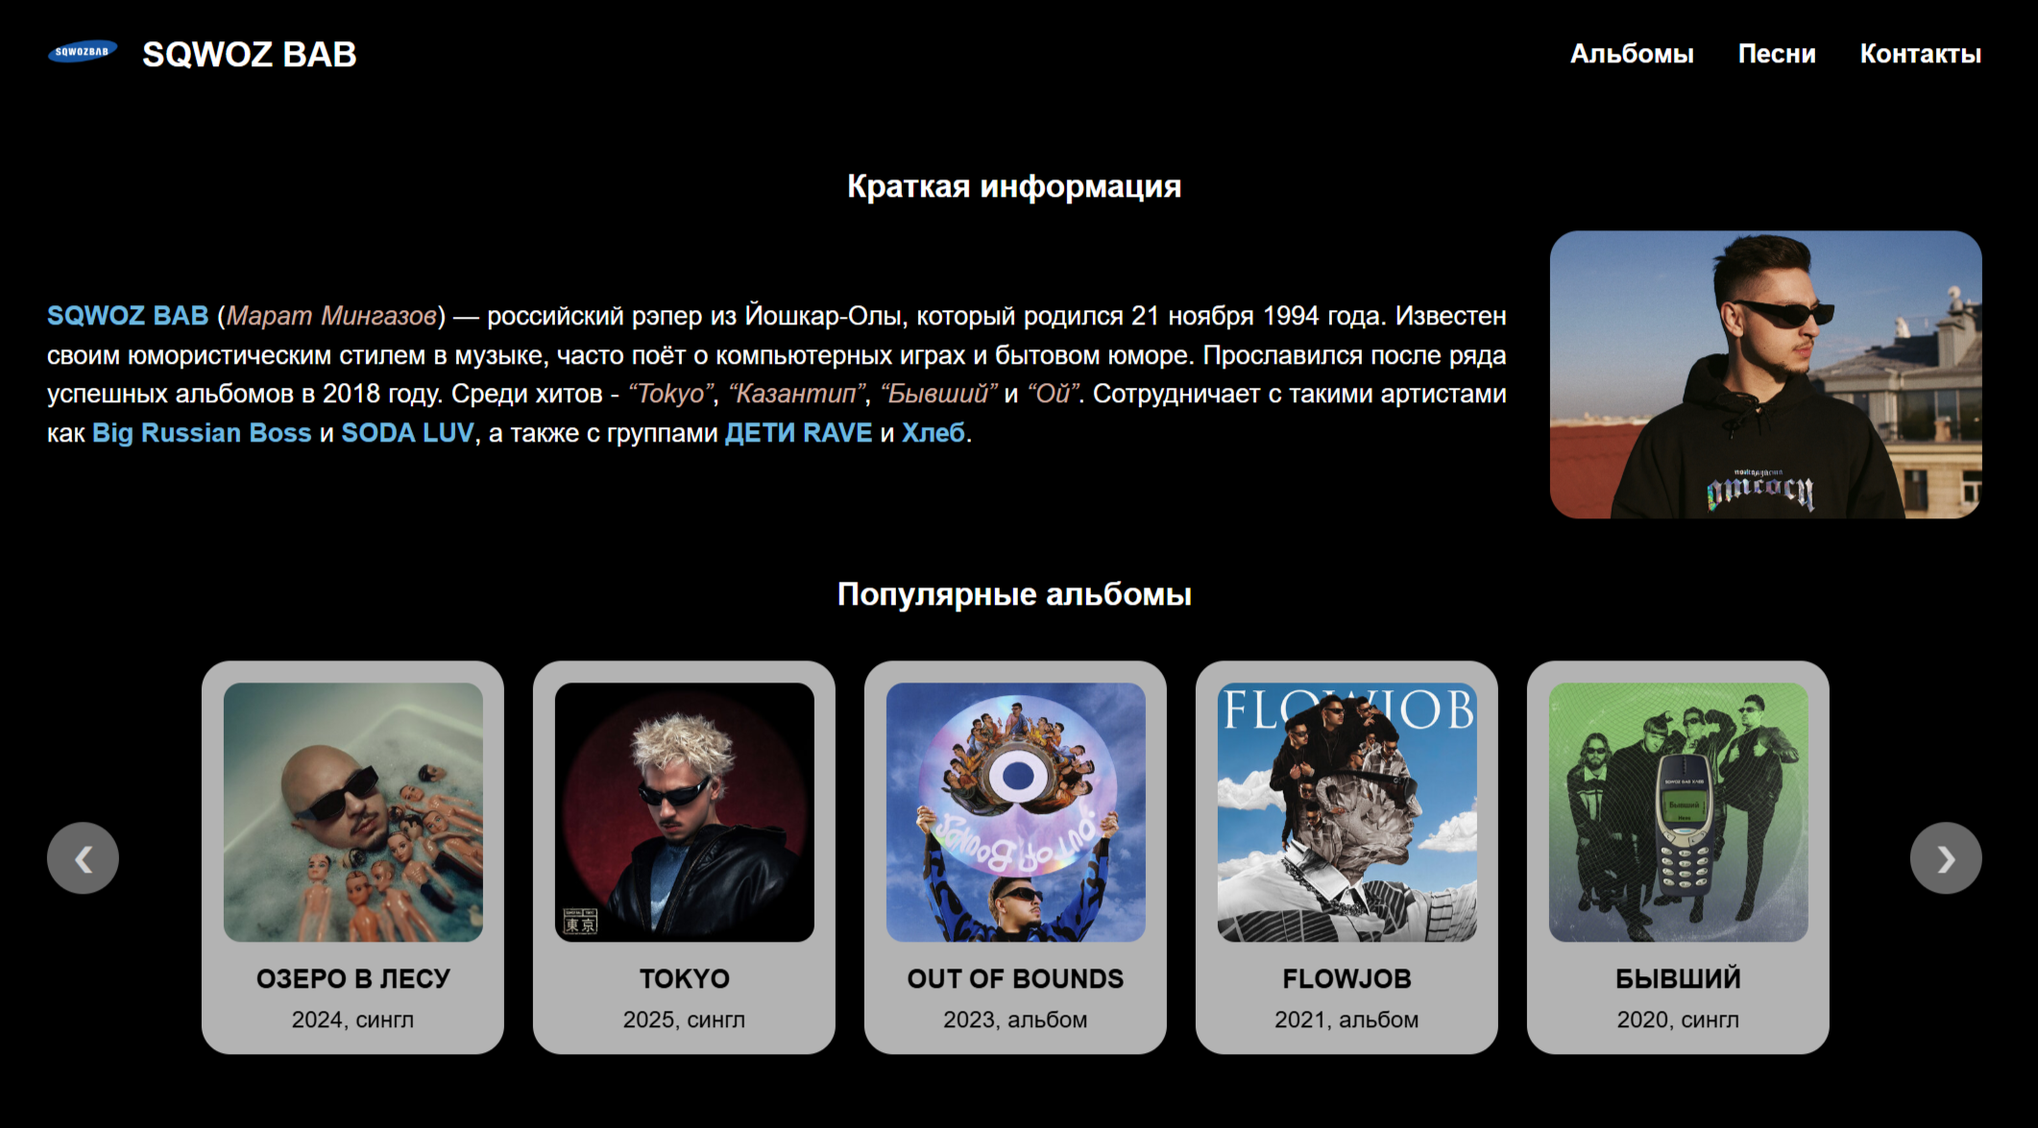
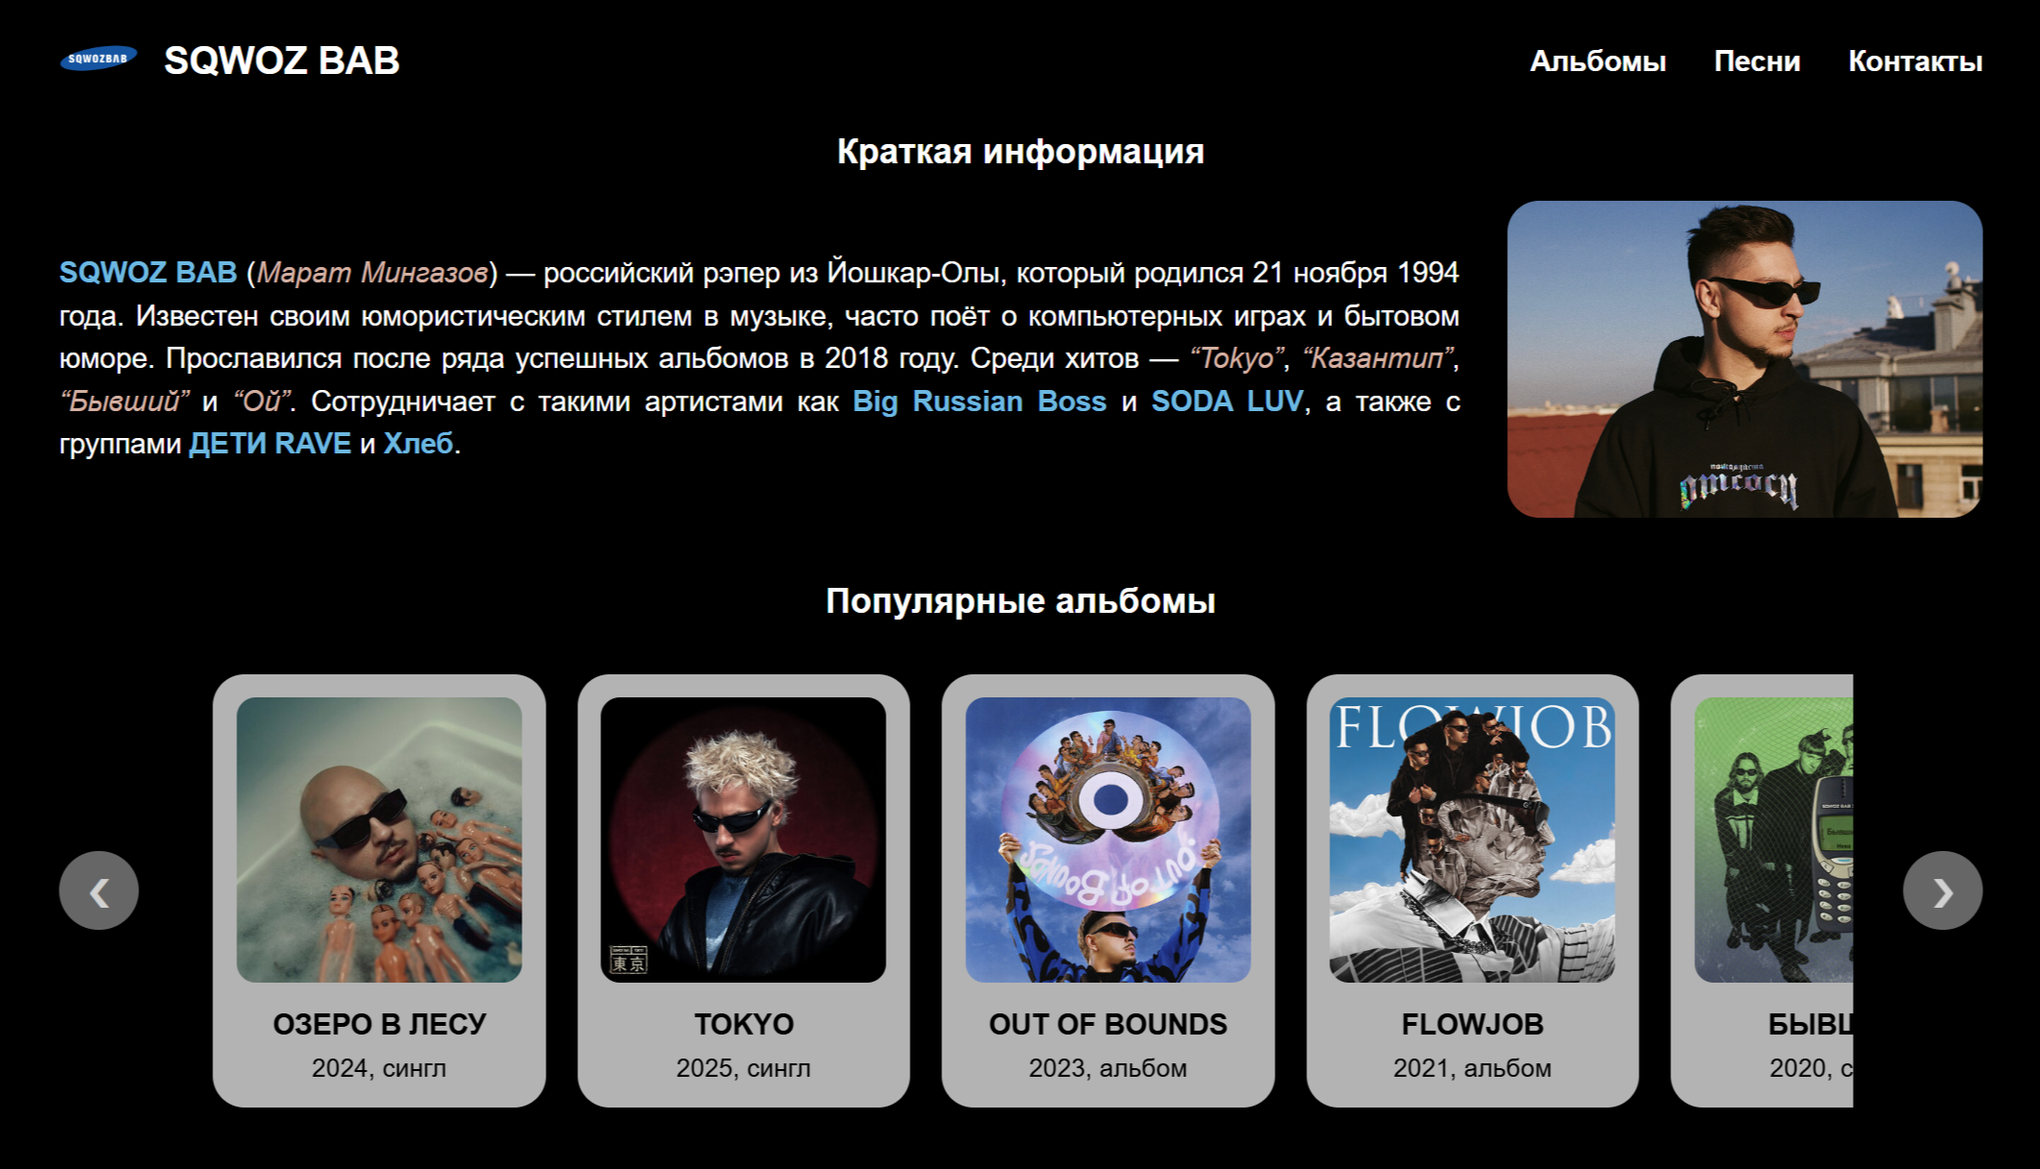
Update html tags

diff --git a/index.html b/index.html
@@ -28,7 +28,7 @@
         <section id="about">
             <h2>Краткая информация</h2>
             <div class="about-info">
-                <p><a href="https://ru.wikipedia.org/wiki/Sqwoz_Bab"><strong>SQWOZ BAB</strong></a> (<em>Марат Мингазов</em>) — российский рэпер из Йошкар-Олы, который родился 21 ноября 1994 года. Известен своим юмористическим стилем в музыке, часто поёт о компьютерных играх и бытовом юморе. Прославился после ряда успешных альбомов в 2018 году. Среди хитов - <em>“Tokyo”</em>, <em>“Казантип”</em>, <em>“Бывший” </em> и <em>“Ой”</em>. Сотрудничает с такими артистами как <a href="https://ru.wikipedia.org/wiki/Big_Russian_Boss"><strong>Big Russian Boss</strong></a> и <a href="https://ru.wikipedia.org/wiki/Soda_Luv"><strong>SODA LUV</strong></a>, а также с группами <a href="https://ru.wikipedia.org/wiki/Дети_Rave"><strong>ДЕТИ RAVE</strong></a> и <a href="https://ru.wikipedia.org/wiki/Хлеб_(группа)"><strong>Хлеб</strong></a>.</p>
+                <p><a href="https://ru.wikipedia.org/wiki/Sqwoz_Bab"><strong>SQWOZ BAB</strong></a> (<em>Марат Мингазов</em>) — российский рэпер из Йошкар-Олы, который родился 21 ноября 1994 года. Известен своим юмористическим стилем в музыке, часто поёт о компьютерных играх и бытовом юморе. Прославился после ряда успешных альбомов в 2018 году. Среди хитов — <em>“Tokyo”</em>, <em>“Казантип”</em>, <em>“Бывший” </em> и <em>“Ой”</em>. Сотрудничает с такими артистами как <a href="https://ru.wikipedia.org/wiki/Big_Russian_Boss"><strong>Big Russian Boss</strong></a> и <a href="https://ru.wikipedia.org/wiki/Soda_Luv"><strong>SODA LUV</strong></a>, а также с группами <a href="https://ru.wikipedia.org/wiki/Дети_Rave"><strong>ДЕТИ RAVE</strong></a> и <a href="https://ru.wikipedia.org/wiki/Хлеб_(группа)"><strong>Хлеб</strong></a>.</p>
                 <img src="images/photo.png" alt="Photo">
             </div>
         </section>
@@ -37,143 +37,169 @@
             <h2>Популярные альбомы</h2>
             <div class="carousel-container">
                 <button class="prev-btn">&#10094;</button>
-                <div class="albums-container">
-                    <article class="album-card">
-                        <img src="images/lake_in_forest.png" alt="Фотография альбома">
-                        <div class="album-info">
-                            <h3>ОЗЕРО В ЛЕСУ</h3>
-                            <p>2024, сингл</p>
-                        </div>
-                    </article>
-                    <article class="album-card">
-                        <img src="images/tokyo.png" alt="Фотография альбома">
-                        <div class="album-info">
-                            <h3>TOKYO</h3>
-                            <p>2025, сингл</p>
-                        </div>
-                    </article>
-                    <article class="album-card">
-                        <img src="images/out_of_bounds.png" alt="Фотография альбома">
-                        <div class="album-info">
-                            <h3>OUT OF BOUNDS</h3>
-                            <p>2023, альбом</p>
-                        </div>
-                    </article>
-                    <article class="album-card">
-                        <img src="images/flowjob.png" alt="Фотография альбома">
-                        <div class="album-info">
-                            <h3>FLOWJOB</h3>
-                            <p>2021, альбом</p>
-                        </div>
-                    </article>
-                    <article class="album-card">
-                        <img src="images/bblvshbli.png" alt="Фотография альбома">
-                        <div class="album-info">
-                            <h3>БЫВШИЙ</h3>
-                            <p>2020, сингл</p>
-                        </div>
-                    </article>
-                    <article class="album-card">
-                        <img src="images/body_language.png" alt="Фотография альбома">
-                        <div class="album-info">
-                            <h3>BODY LANGUAGE</h3>
-                            <p>2020, альбом</p>
-                        </div>
-                    </article>
-                    <article class="album-card">
-                        <img src="images/baltic.png" alt="Фотография альбома">
-                        <div class="album-info">
-                            <h3>БАЛТИКА</h3>
-                            <p>2024, сингл</p>
-                        </div>
-                    </article>
-                </div>
+                <ol class="albums-container">
+                    <li>
+                            <article class="album-card">
+                            <img src="images/lake_in_forest.png" alt="Фотография альбома">
+                            <div class="album-info">
+                                <h3>ОЗЕРО В ЛЕСУ</h3>
+                                <p>2024, сингл</p>
+                            </div>
+                        </article>
+                    </li>
+                    <li>
+                        <article class="album-card">
+                            <img src="images/tokyo.png" alt="Фотография альбома">
+                            <div class="album-info">
+                                <h3>TOKYO</h3>
+                                <p>2025, сингл</p>
+                            </div>
+                        </article>
+                    </li>
+                    <li>
+                        <article class="album-card">
+                            <img src="images/out_of_bounds.png" alt="Фотография альбома">
+                            <div class="album-info">
+                                <h3>OUT OF BOUNDS</h3>
+                                <p>2023, альбом</p>
+                            </div>
+                        </article>
+                    </li>
+                    <li>
+                        <article class="album-card">
+                            <img src="images/flowjob.png" alt="Фотография альбома">
+                            <div class="album-info">
+                                <h3>FLOWJOB</h3>
+                                <p>2021, альбом</p>
+                            </div>
+                        </article>
+                    </li>
+                    <li>
+                        <article class="album-card">
+                            <img src="images/bblvshbli.png" alt="Фотография альбома">
+                            <div class="album-info">
+                                <h3>БЫВШИЙ</h3>
+                                <p>2020, сингл</p>
+                            </div>
+                        </article>
+                    </li>
+                    <li>
+                        <article class="album-card">
+                            <img src="images/body_language.png" alt="Фотография альбома">
+                            <div class="album-info">
+                                <h3>BODY LANGUAGE</h3>
+                                <p>2020, альбом</p>
+                            </div>
+                        </article>
+                    </li>
+                    <li>
+                        <article class="album-card">
+                            <img src="images/baltic.png" alt="Фотография альбома">
+                            <div class="album-info">
+                                <h3>БАЛТИКА</h3>
+                                <p>2024, сингл</p>
+                            </div>
+                        </article>
+                    </li>
+                </ol>
                 <button class="next-btn">&#10095;</button>
             </div>
         </section>
 
         <section id="top-songs">
             <h2>Популярные песни</h2>
-            <div class="songs-container">
-                <article class="song-card">
-                    <button class="play-btn">
-                        <i class="fas fa-play"></i>
-                    </button>
-                    <img src="images/tokyo.png" alt="Обложка песни" class="song-cover">
-                    <div class="song-info">
-                        <h3>TOKYO</h3>
-                        <p>SQWOZ BAB</p>
-                    </div>
-                    <input type="range" class="progress-bar" value="0" max="100" step="1">
-                    <span class="duration"></span>
-                    <audio class="audio" src="audio/sqwoz-bab-tokyo.mp3"></audio>
-                </article>
-                <article class="song-card">
-                    <button class="play-btn">
-                        <i class="fas fa-play"></i>
-                    </button>
-                    <img src="images/notes_about_love.png" alt="Обложка песни" class="song-cover">
-                    <div class="song-info">
-                        <h3>PAST PERFECT</h3>
-                        <p>SQWOZ BAB</p>
-                    </div>
-                    <input type="range" class="progress-bar" value="0" max="100" step="1">
-                    <span class="duration"></span>
-                    <audio class="audio" src="audio/sqwoz-bab-past-perfect.mp3"></audio>
-                </article>
-                <article class="song-card">
-                    <button class="play-btn">
-                        <i class="fas fa-play"></i>
-                    </button>
-                    <img src="images/out_of_bounds.png" alt="Обложка песни" class="song-cover">
-                    <div class="song-info">
-                        <h3>МИКРОЗАЙМ</h3>
-                        <p>SQWOZ BAB</p>
-                    </div>
-                    <input type="range" class="progress-bar" value="0" max="100" step="1">
-                    <span class="duration"></span>
-                    <audio class="audio" src="audio/sqwoz-bab-mikrozajjm.mp3"></audio>
-                </article>
-                <article class="song-card">
-                    <button class="play-btn">
-                        <i class="fas fa-play"></i>
-                    </button>
-                    <img src="images/out_of_bounds.png" alt="Обложка песни" class="song-cover">
-                    <div class="song-info">
-                        <h3>РУКИ ВНИЗ</h3>
-                        <p>SQWOZ BAB</p>
-                    </div>
-                    <input type="range" class="progress-bar" value="0" max="100" step="1">
-                    <span class="duration"></span>
-                    <audio class="audio" src="audio/sqwoz-bab-ryki-vniz.mp3"></audio>
-                </article>
-                <article class="song-card">
-                    <button class="play-btn">
-                        <i class="fas fa-play"></i>
-                    </button>
-                    <img src="images/bblvshbli.png" alt="Обложка песни" class="song-cover">
-                    <div class="song-info">
-                        <h3>БЫВШИЙ</h3>
-                        <p>SQWOZ BAB</p>
-                    </div>
-                    <input type="range" class="progress-bar" value="0" max="100" step="1">
-                    <span class="duration"></span>
-                    <audio class="audio" src="audio/sqwoz-bab-bblvshbli.mp3"></audio>
-                </article>
-                <article class="song-card">
-                    <button class="play-btn">
-                        <i class="fas fa-play"></i>
-                    </button>
-                    <img src="images/rakhat-lukum.png" alt="Обложка песни" class="song-cover">
-                    <div class="song-info">
-                        <h3>РАХАТ ЛУКУМ</h3>
-                        <p>SQWOZ BAB</p>
-                    </div>
-                    <input type="range" class="progress-bar" value="0" max="100" step="1">
-                    <span class="duration"></span>
-                    <audio class="audio" src="audio/sqwoz-bab-rakhat-lukum.mp3"></audio>
-                </article>             
-            </div>
+            <ol class="songs-container">
+                <li>
+                    <article class="song-card">
+                        <button class="play-btn">
+                            <i class="fas fa-play"></i>
+                        </button>
+                        <img src="images/tokyo.png" alt="Обложка песни" class="song-cover">
+                        <div class="song-info">
+                            <h3>TOKYO</h3>
+                            <p>SQWOZ BAB</p>
+                        </div>
+                        <input type="range" class="progress-bar" value="0" max="100" step="1">
+                        <span class="duration"></span>
+                        <audio class="audio" src="audio/sqwoz-bab-tokyo.mp3"></audio>
+                    </article>
+                </li>
+                <li>
+                    <article class="song-card">
+                        <button class="play-btn">
+                            <i class="fas fa-play"></i>
+                        </button>
+                        <img src="images/notes_about_love.png" alt="Обложка песни" class="song-cover">
+                        <div class="song-info">
+                            <h3>PAST PERFECT</h3>
+                            <p>SQWOZ BAB</p>
+                        </div>
+                        <input type="range" class="progress-bar" value="0" max="100" step="1">
+                        <span class="duration"></span>
+                        <audio class="audio" src="audio/sqwoz-bab-past-perfect.mp3"></audio>
+                    </article>
+                </li>
+                <li>
+                    <article class="song-card">
+                        <button class="play-btn">
+                            <i class="fas fa-play"></i>
+                        </button>
+                        <img src="images/out_of_bounds.png" alt="Обложка песни" class="song-cover">
+                        <div class="song-info">
+                            <h3>МИКРОЗАЙМ</h3>
+                            <p>SQWOZ BAB</p>
+                        </div>
+                        <input type="range" class="progress-bar" value="0" max="100" step="1">
+                        <span class="duration"></span>
+                        <audio class="audio" src="audio/sqwoz-bab-mikrozajjm.mp3"></audio>
+                    </article>
+                </li>
+                <li>
+                    <article class="song-card">
+                        <button class="play-btn">
+                            <i class="fas fa-play"></i>
+                        </button>
+                        <img src="images/out_of_bounds.png" alt="Обложка песни" class="song-cover">
+                        <div class="song-info">
+                            <h3>РУКИ ВНИЗ</h3>
+                            <p>SQWOZ BAB</p>
+                        </div>
+                        <input type="range" class="progress-bar" value="0" max="100" step="1">
+                        <span class="duration"></span>
+                        <audio class="audio" src="audio/sqwoz-bab-ryki-vniz.mp3"></audio>
+                    </article>
+                </li>
+                <li>
+                    <article class="song-card">
+                        <button class="play-btn">
+                            <i class="fas fa-play"></i>
+                        </button>
+                        <img src="images/bblvshbli.png" alt="Обложка песни" class="song-cover">
+                        <div class="song-info">
+                            <h3>БЫВШИЙ</h3>
+                            <p>SQWOZ BAB</p>
+                        </div>
+                        <input type="range" class="progress-bar" value="0" max="100" step="1">
+                        <span class="duration"></span>
+                        <audio class="audio" src="audio/sqwoz-bab-bblvshbli.mp3"></audio>
+                    </article>
+                </li>
+                <li>
+                    <article class="song-card">
+                        <button class="play-btn">
+                            <i class="fas fa-play"></i>
+                        </button>
+                        <img src="images/rakhat-lukum.png" alt="Обложка песни" class="song-cover">
+                        <div class="song-info">
+                            <h3>РАХАТ ЛУКУМ</h3>
+                            <p>SQWOZ BAB</p>
+                        </div>
+                        <input type="range" class="progress-bar" value="0" max="100" step="1">
+                        <span class="duration"></span>
+                        <audio class="audio" src="audio/sqwoz-bab-rakhat-lukum.mp3"></audio>
+                    </article> 
+                </li>            
+            </ol>
         </section>
     </main>
 

diff --git a/style.css b/style.css
@@ -177,6 +177,8 @@ strong {
     padding: 15px;
     width: 84%;
     scrollbar-width: none;
+    list-style: none;
+    margin: 0;
 }
 
 .carousel-container {
@@ -209,6 +211,8 @@ strong {
     flex-direction: column;
     gap: 15px;
     padding: 15px 0;
+    list-style: none;
+    margin: 0;
 }
 
 .song-card {
@@ -448,6 +452,16 @@ strong {
 
     .social-icon {
         font-size: 28px;
+    }
+}
+
+@media (max-width: 320px) {
+    .progress-bar {
+        display: none;
+    }
+    
+    .duration {
+        display: none;
     }
 }
 
